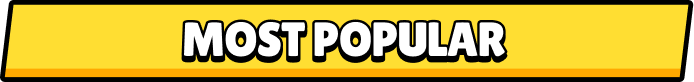
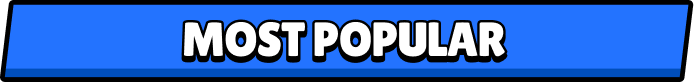
Mis à jour des modes de jeux via le backend + ajout des images gamemode

diff --git a/js/gamemode_menu.js b/js/gamemode_menu.js
@@ -1,4 +1,38 @@
 const RESET_LABEL = Utils.getTimeUntilMidnight();
+const SUPABASE_URL = 'https://szvogkodnqqkkkzbiihd.supabase.co';
+const SUPABASE_ANON_KEY = 'eyJhbGciOiJIUzI1NiIsInR5cCI6IkpXVCJ9.eyJpc3MiOiJzdXBhYmFzZSIsInJlZiI6InN6dm9na29kbnFxa2tremJpaWhkIiwicm9sZSI6ImFub24iLCJpYXQiOjE3ODEwMDc0NDksImV4cCI6MjA5NjU4MzQ0OX0.HENgyyB136cw5_Dms44g7gTGAxdvpOVg1Fe5dJBQCLo';
+
+async function fetchRows(table, params) {
+  var url = new URL(SUPABASE_URL + '/rest/v1/' + table);
+  Object.keys(params).forEach(function(key) {
+    url.searchParams.set(key, params[key]);
+  });
+
+  var response = await fetch(url, {
+    headers: {
+      apikey: SUPABASE_ANON_KEY,
+      Authorization: 'Bearer ' + SUPABASE_ANON_KEY,
+    },
+  });
+
+  if (!response.ok) {
+    throw new Error(await response.text());
+  }
+
+  return response.json();
+}
+
+function normalizeModeName(name) {
+  return String(name || '')
+    .trim()
+    .toLowerCase()
+    .replace(/\s+/g, '_');
+}
+
+function getModePage(name) {
+  var pageName = normalizeModeName(name);
+  return pageName + '.html';
+}
 
 function createModeCard(cfg, options, index) {
   var href     = cfg.href     || '#';
@@ -17,7 +51,7 @@ function createModeCard(cfg, options, index) {
   menuDiv.style.height = 'auto';
 
   var imgMenu = document.createElement('img');
-  imgMenu.src = '../assets/gamemode/default.png';
+  imgMenu.src = cfg.modeImage || '../assets/gamemode/default.png';
   imgMenu.alt = 'Menu Default';
   imgMenu.style.width = '100%';
   imgMenu.style.height = 'auto';
@@ -49,21 +83,23 @@ function createModeCard(cfg, options, index) {
 
   card.appendChild(menuDiv);
 
-  var underDiv = document.createElement('div');
-  underDiv.style.position = 'relative';
-  underDiv.style.width = '100%';
-  underDiv.style.height = 'auto';
-  underDiv.style.marginTop = '-20px';
-  underDiv.style.display = 'flex';
-  underDiv.style.justifyContent = 'center';
-  underDiv.style.alignItems = 'flex-end';
-  var imgUnder = document.createElement('img');
-  imgUnder.src = '../assets/gamemode/most_popular.png';
-  imgUnder.alt = 'Most Popular';
-  imgUnder.style.width = '75%';
-  imgUnder.style.height = 'auto';
-  underDiv.appendChild(imgUnder);
-  card.appendChild(underDiv);
+  if (cfg.labelImage) {
+    var underDiv = document.createElement('div');
+    underDiv.style.position = 'relative';
+    underDiv.style.width = '100%';
+    underDiv.style.height = 'auto';
+    underDiv.style.marginTop = '-20px';
+    underDiv.style.display = 'flex';
+    underDiv.style.justifyContent = 'center';
+    underDiv.style.alignItems = 'flex-end';
+    var imgUnder = document.createElement('img');
+    imgUnder.src = cfg.labelImage;
+    imgUnder.alt = 'Label du mode';
+    imgUnder.style.width = '75%';
+    imgUnder.style.height = 'auto';
+    underDiv.appendChild(imgUnder);
+    card.appendChild(underDiv);
+  }
 
   wrap.appendChild(card);
 
@@ -86,6 +122,7 @@ function initMenuCards(gridSelector, cards, options) {
   }
 }
 var infoPanel = document.getElementById('gamemodeInfoPanel');
+  var infoImage = infoPanel.querySelector('.gamemode-info-image');
   var infoClose = document.getElementById('gamemodeInfoClose');
   var modesGrid = document.getElementById('modesGrid');
   var modesPrevBtn = document.getElementById('modesPrevBtn');
@@ -100,16 +137,57 @@ var infoPanel = document.getElementById('gamemodeInfoPanel');
   var cardsData = [
     {
       href: 'classic.html',
-      infoText: 'Devine le Brawler du jour en te basant sur ses caractéristiques.<br><br>🟩 Correct &nbsp; 🟨 Proche &nbsp; 🟥 Incorrect<br><br>⬆/⬇ indique si l\'année cible est plus récente ou plus ancienne.',
+      modeImage: '../assets/gamemode/classic_mode.png',
+      labelImage: '../assets/gamemode/most_popular.png',
+      infoImage: '../assets/gamemode/gamemode_info_classic.png',
     },
-    { href: 'classic.html', infoText: 'Mode compétitif.' },
-    { href: 'classic.html', infoText: 'Mode contre la montre.' },
-    { href: 'classic.html', infoText: 'Mode duo.' },
-    { href: 'classic.html', infoText: 'Mode survie.' },
-    { href: 'classic.html', infoText: 'Mode événements.' },
-    { href: 'classic.html', infoText: 'Mode défis.' },
-    { href: 'classic.html', infoText: 'Mode classement.' },
+    { href: 'classic.html', modeImage: '../assets/gamemode/classic_mode.png', labelImage: '../assets/gamemode/most_popular.png', infoImage: '../assets/gamemode/gamemode_info_classic.png'},
+    { href: 'classic.html', modeImage: '../assets/gamemode/classic_mode.png', labelImage: '../assets/gamemode/new.png', infoImage: '../assets/gamemode/gamemode_info_classic.png'},
+    { href: 'classic.html', modeImage: '../assets/gamemode/classic_mode.png', labelImage: '../assets/gamemode/trending.png', infoImage: '../assets/gamemode/gamemode_info_classic.png'},
+    { href: 'classic.html', modeImage: '../assets/gamemode/classic_mode.png', labelImage: '../assets/gamemode/most_popular.png', infoImage: '../assets/gamemode/gamemode_info_classic.png'},
+    { href: 'classic.html', modeImage: '../assets/gamemode/classic_mode.png', labelImage: '../assets/gamemode/new.png', infoImage: '../assets/gamemode/gamemode_info_classic.png'},
+    { href: 'classic.html', modeImage: '../assets/gamemode/classic_mode.png', labelImage: '../assets/gamemode/trending.png', infoImage: '../assets/gamemode/gamemode_info_classic.png'},
+    { href: 'classic.html', modeImage: '../assets/gamemode/classic_mode.png', labelImage: '../assets/gamemode/most_popular.png', infoImage: '../assets/gamemode/gamemode_info_classic.png'},
   ];
+
+  async function loadCardsData() {
+    var today = new Date().toISOString().slice(0, 10);
+    var schedule = await fetchRows('daily_schedule', {
+      select: 'mode_id,mode_slot',
+      play_date: 'eq.' + today,
+      order: 'mode_slot.asc',
+    });
+
+    if (!schedule.length) {
+      throw new Error('daily_schedule: no modes for today');
+    }
+
+    var modeIds = schedule.map(function(row) { return row.mode_id; });
+    var modes = await fetchRows('game_mode', {
+      select: 'id,name,label,is_enabled',
+      id: 'in.(' + modeIds.join(',') + ')',
+      is_enabled: 'eq.true',
+    });
+    var modesById = {};
+    modes.forEach(function(mode) { modesById[mode.id] = mode; });
+
+    return schedule
+      .map(function(row) {
+        var mode = modesById[row.mode_id];
+        if (!mode) return null;
+        var modeName = normalizeModeName(mode.name);
+        var labelName = normalizeModeName(mode.label);
+        return {
+          href: getModePage(mode.name),
+          modeImage: '../assets/gamemode/' + modeName + '_mode.png',
+          infoImage: '../assets/gamemode/gamemode_info_' + modeName + '.png',
+          labelImage: labelName ? '../assets/gamemode/' + labelName + '.png' : null,
+          infoText: mode.name,
+          modeSlot: row.mode_slot,
+        };
+      })
+      .filter(function(card) { return card !== null; });
+  }
 
   function getCardsPerPage() {
     var width = window.innerWidth || document.documentElement.clientWidth;
@@ -127,14 +205,12 @@ var infoPanel = document.getElementById('gamemodeInfoPanel');
   }
 
   function getTotalPages() {
-    var cardsPerPage = getCardsPerPage();
     var step = getPageStep();
-    if (cardsData.length <= cardsPerPage) return 1;
-    return Math.floor((cardsData.length - cardsPerPage + step - 1) / step) + 1;
+    if (cardsData.length <= getCardsPerPage()) return 1;
+    return Math.ceil(cardsData.length / step);
   }
 
   function renderModesPage() {
-    var isMobile = window.matchMedia('(max-width: 560px)').matches;
     var cardsPerPage = getCardsPerPage();
     var step = getPageStep();
     var totalPages = getTotalPages();
@@ -144,14 +220,14 @@ var infoPanel = document.getElementById('gamemodeInfoPanel');
     }
 
     var start = currentPage * step;
-    var end = Math.min(start + cardsPerPage, cardsData.length);
 
     modesGrid.innerHTML = '';
 
-    for (var i = start; i < end; i++) {
-      var cardNode = createModeCard(cardsData[i], {
+    for (var offset = 0; offset < cardsPerPage; offset++) {
+      var cardIndex = (start + offset) % cardsData.length;
+      var cardNode = createModeCard(cardsData[cardIndex], {
         onInfoClick: handleInfoClick,
-      }, i);
+      }, cardIndex);
       modesGrid.appendChild(cardNode);
     }
   }
@@ -183,6 +259,10 @@ var infoPanel = document.getElementById('gamemodeInfoPanel');
   }
 
   function openInfoPanel(index) {
+    var card = cardsData[index];
+    infoImage.src = card && card.infoImage
+      ? card.infoImage
+      : '../assets/gamemode/gamemode_info_default.png';
     infoPanel.classList.add('open');
     infoPanel.setAttribute('aria-hidden', 'false');
     activeInfoIndex = index;
@@ -232,4 +312,15 @@ var infoPanel = document.getElementById('gamemodeInfoPanel');
 
   window.addEventListener('resize', renderModesPage);
 
-  renderModesPage();
+  loadCardsData()
+    .then(function(cards) {
+      if (cards.length) {
+        cardsData = cards;
+        currentPage = 0;
+        renderModesPage();
+      }
+    })
+    .catch(function(error) {
+      console.error('Impossible de charger les modes du jour.', error);
+      renderModesPage();
+    });

diff --git a/css/gamemode_menu.css b/css/gamemode_menu.css
@@ -36,7 +36,8 @@
 .modes-grid {
   display: grid;
   grid-template-columns: repeat(2, 340px);
-  grid-template-rows: repeat(4, auto);
+  grid-template-rows: repeat(2, auto);
+  grid-auto-flow: column;
   gap: 1em;
   justify-content: center;
   transform: translateX(0);
